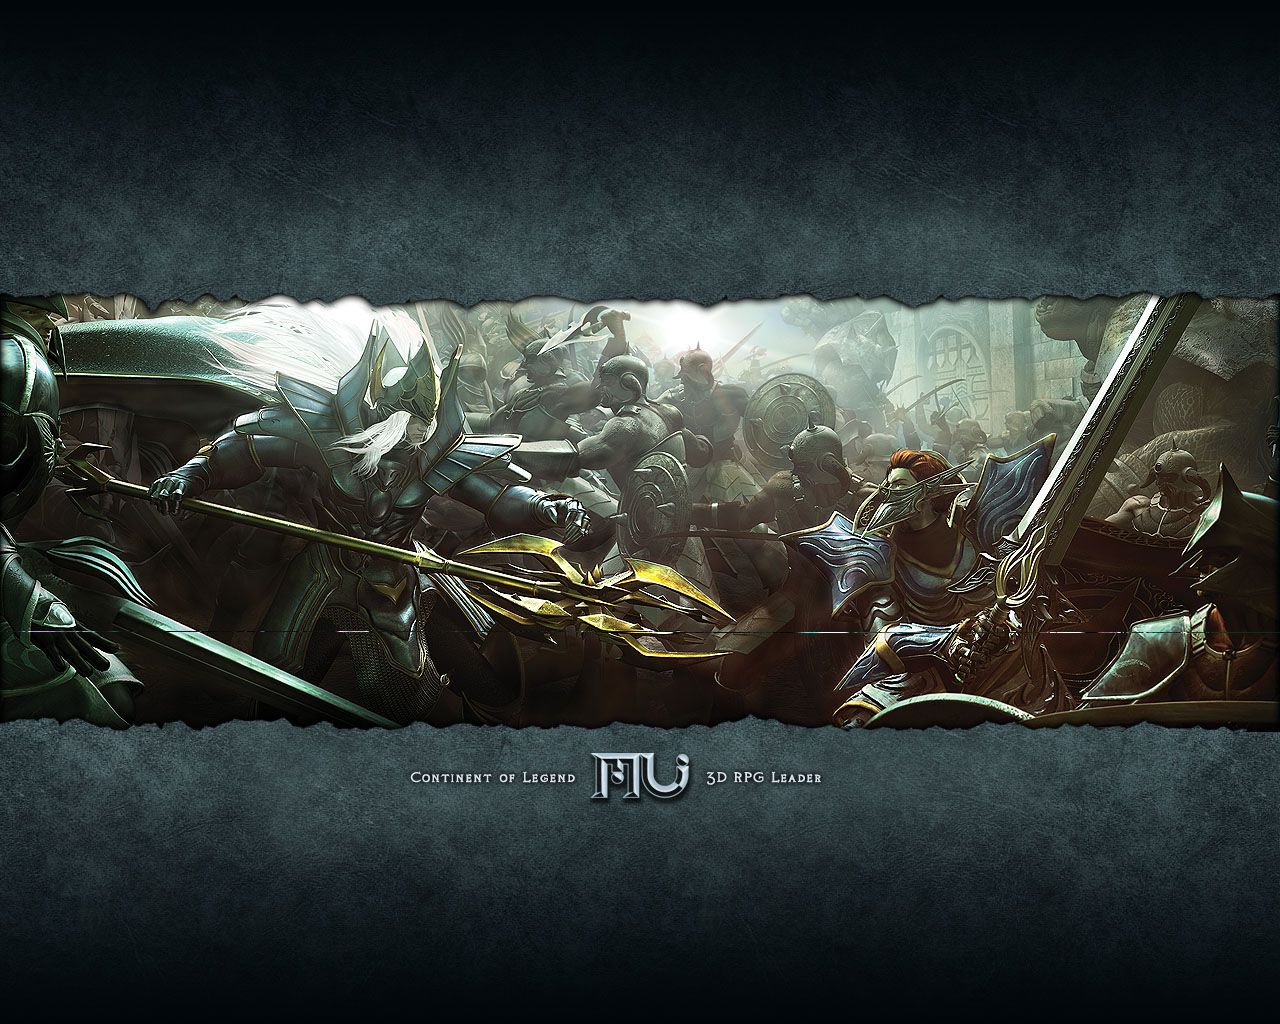
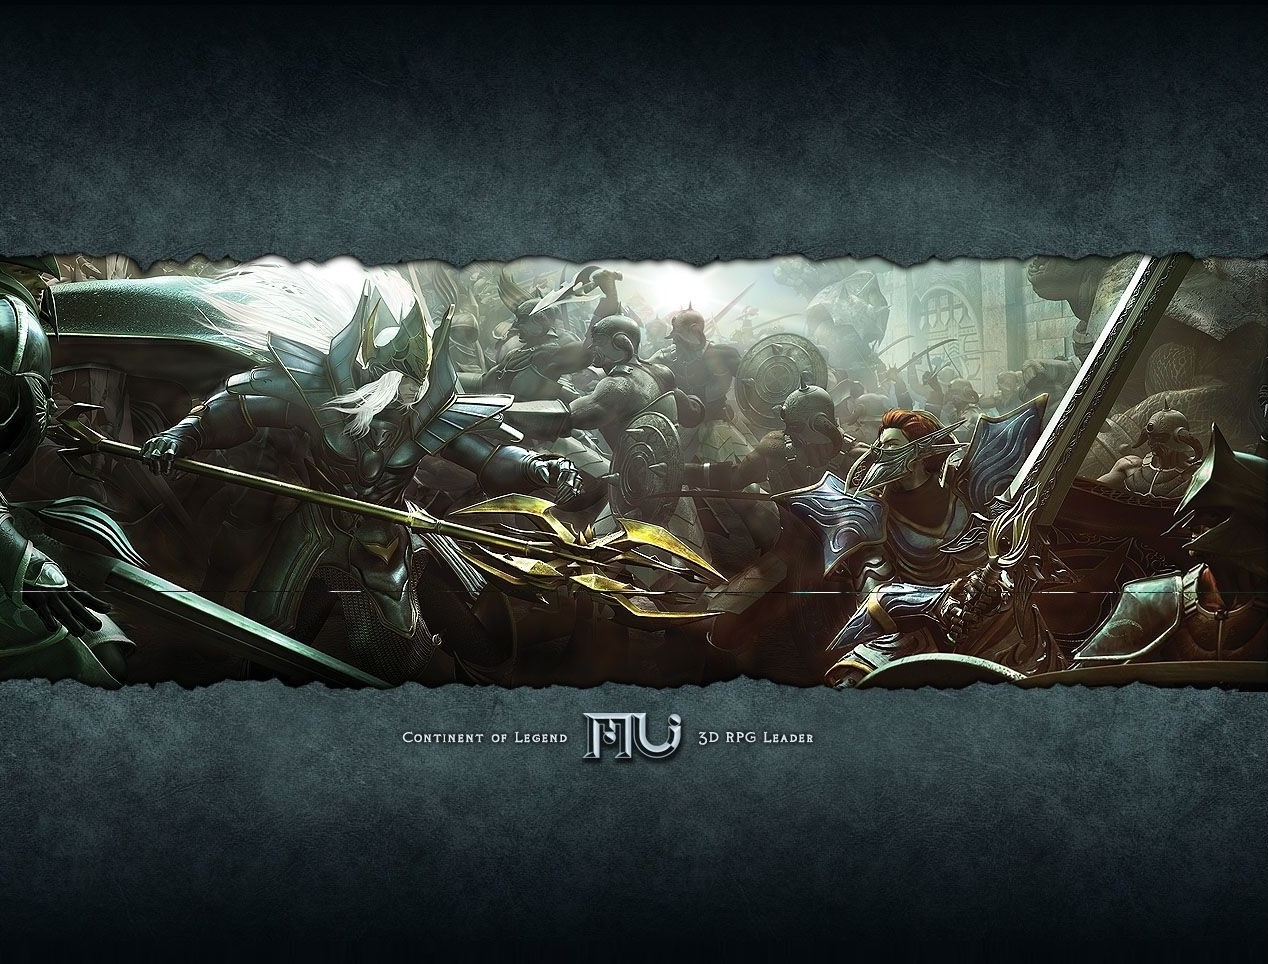
foi adicionado os card's

diff --git a/index.html b/index.html
@@ -11,9 +11,9 @@
 
         <link rel="stylesheet" href="https://stackpath.bootstrapcdn.com/bootstrap/4.3.1/css/bootstrap.min.css" integrity="sha384-ggOyR0iXCbMQv3Xipma34MD+dH/1fQ784/j6cY/iJTQUOhcWr7x9JvoRxT2MZw1T" crossorigin="anonymous">
 
+        <link rel="stylesheet" href="./assets/css/mubg.css">
         <link rel="stylesheet" href="./assets/css/menu/normalize.css"/>
         <link rel="stylesheet" href="./assets/css/menu/reset.css"/>
-        <link rel="stylesheet" href="./assets/css/mubg.css">
         <link rel="stylesheet" href="./assets/css/cabecalho.css">
         <link rel="stylesheet" href="./assets/css/menu-lista.css">
         <link rel="stylesheet" href="./assets/css/menu-item.css">
@@ -23,6 +23,12 @@
         <link rel="stylesheet" href="./assets/css/banner-imagem.css">
         <link rel="stylesheet" href="./assets/css/banner-titulo.css">
         <link rel="stylesheet" href="./assets/css/style-carousel.css">
+        <link rel="stylesheet" href="./assets/css/fonts/fonts.css">
+        <link rel="stylesheet" href="./assets/css/sobre/sobre.css">
+        <link rel="stylesheet" href="./assets/css/receitas/receitas.css">
+        <link rel="stylesheet" href="./assets/css/rodape.css">
+
+
 
         <link rel="preconnect" href="https://fonts.googleapis.com">
         <link rel="preconnect" href="https://fonts.gstatic.com" crossorigin>
@@ -50,10 +56,10 @@
             <div class="fig__test">DOWNLOAD</div>
         </section>
 
-         <!-- parte do carrosel -->
+         <!-- parte do carousel -->
 
         <div class="bd-example">
-            <div id="carouselExampleCaptions" class="carousel slide" data-interval="5000" data-ride="carousel">
+            <div id="carouselExampleCaptions" class="carousel slide "  data-interval="5000" data-ride="carousel">
               <ol class="carousel-indicators">
                 <li data-target="#carouselExampleCaptions" data-slide-to="0" class="active"></li>
                 <li data-target="#carouselExampleCaptions" data-slide-to="1"></li>
@@ -68,20 +74,18 @@
                 </div>
                 <!-- Para um html semantico usar tag "figure" no lugar de div para onde tiver imagens -->
                 <div class="carousel-item">
-                  <img src="./assets/img/carrossel2.jpg" class="d-block w-100 imagem-carrosel2" alt="...">
+                  <img src="./assets/img/carrossel2.jpg" class="d-block w-100 imagem-carrosel" alt="...">
                   <div class="carousel-caption d-none d-md-block h-50">
                     <h1 class="fonte-titulo display-3">consectetur adipiscing elit</h1>
                   </div>
                 </div>
-                            <!-- teste para terceiro carousel -->
+                <!-- teste para terceiro carousel -->
                 <div class="carousel-item">
-                    <img src="./assets/img/carosel3.jpg" class="d-block w-100 imagem-carrosel2" alt="...">
+                    <img src="./assets/img/carosel3.jpg" class="d-block w-100 imagem-carrosel" alt="...">
                     <div class="carousel-caption d-none d-md-block h-50">
                         <h1 class="fonte-titulo display-3">consectetur adipiscing elit</h1>
                     </div>
                 </div>
-
-
 
               <a class="carousel-control-prev" href="#carouselExampleCaptions" role="button" data-slide="prev">
                 <span class="carousel-control-prev-icon" aria-hidden="true"></span>
@@ -92,12 +96,66 @@
                 <span class="sr-only">Next</span>
               </a>
             </div>
+        </div>
+
+        <section class="sobre">
+          <h2 class="sobre__titulo">Etiam eget ligula eu lectus lobortis </h2>
+          <p class="sobre__descricao">aliquip ex ea commodo consequat. Duis aute irure dolor in reprehenderit in voluptate velit esse cillum dolore eu fugiat nulla pariatur.</p>
+        </section>
+
+
+        <!-- parte dos card's -->
+        <section class="receita">
+          <div class="receitas">
+              <img alt="Tigela de abacate" class="receita__imagem" src="./assets/img/cards/mu-card.jpg" class="img__sze"/>
+              <div class="receita__conteudo">
+                  <h4 class="receita__titulo">elit, sed do eiusmod </h4>
+                  <p class="receita__descricao">Excepteur sint occaecat cupidatat non proident.</p>
+                  <button class="receita__botao">sint occaecat</button>
+              </div>
           </div>
-
-
-
-
-    
+          <div class="receitas">
+              <img alt="Salada de kiwi" class="receita__imagem" src="./assets/img/cards/mu-card2.jpg" />
+              <div class="receita__conteudo">
+                  <h4 class="receita__titulo">elit, sed do eiusmod </h4>
+                  <p class="receita__descricao">Excepteur sint occaecat cupidatat non proident.</p>
+                  <button class="receita__botao">sint occaecat</button>
+              </div>
+          </div>
+          <div class="receitas">
+              <img alt="Mix de vegetais" class="receita__imagem" src="./assets/img/cards/mu-card3.jpg" />
+              <div class="receita__conteudo">
+                  <h4 class="receita__titulo">elit, sed do eiusmod </h4>
+                  <p class="receita__descricao">Excepteur sint occaecat cupidatat non proident.</p>
+                  <button class="receita__botao">sint occaecat</button>
+              </div>
+          </div>
+          <div class="receitas">
+              <img alt="Pimentões à Juliana" class="receita__imagem" src="./assets/img/cards/mu-card4.jpg" />
+              <div class="receita__conteudo">
+                  <h4 class="receita__titulo">elit, sed do eiusmod </h4>
+                  <p class="receita__descricao">Excepteur sint occaecat cupidatat non proident.</p>
+                  <button class="receita__botao">sint occaecat</button>
+              </div>
+          </div>
+          <div class="receitas">
+              <img alt="Prato oriental" class="receita__imagem" src="./assets/img/cards/mu-card5.jpg" />
+              <div class="receita__conteudo">
+                  <h4 class="receita__titulo">elit, sed do eiusmod </h4>
+                  <p class="receita__descricao">Excepteur sint occaecat cupidatat non proident.</p>
+                  <button class="receita__botao">sint occaecat</button>
+              </div>
+          </div>
+          <div class="receitas">
+              <img alt="Beterrabas assadas" class="receita__imagem" src="./assets/img/cards/mu-card6.jpg" />
+              <div class="receita__conteudo">
+                  <h4 class="receita__titulo">elit, sed do eiusmod </h4>
+                  <p class="receita__descricao">Excepteur sint occaecat cupidatat non proident.</p>
+                  <button class="receita__botao">sint occaecat</button>
+              </div>
+          </div>
+      </section>
+      <!--configurações do bootstrap -->
         <script src="https://code.jquery.com/jquery-3.3.1.slim.min.js" integrity="sha384-q8i/X+965DzO0rT7abK41JStQIAqVgRVzpbzo5smXKp4YfRvH+8abtTE1Pi6jizo" crossorigin="anonymous"></script>
         <script src="https://cdnjs.cloudflare.com/ajax/libs/popper.js/1.14.7/umd/popper.min.js" integrity="sha384-UO2eT0CpHqdSJQ6hJty5KVphtPhzWj9WO1clHTMGa3JDZwrnQq4sF86dIHNDz0W1" crossorigin="anonymous"></script>
         <script src="https://stackpath.bootstrapcdn.com/bootstrap/4.3.1/js/bootstrap.min.js" integrity="sha384-JjSmVgyd0p3pXB1rRibZUAYoIIy6OrQ6VrjIEaFf/nJGzIxFDsf4x0xIM+B07jRM" crossorigin="anonymous"></script>

diff --git a/assets/css/receitas/receitas.css b/assets/css/receitas/receitas.css
@@ -1,0 +1,38 @@
+.receita {
+    display: flex;
+    flex-wrap: wrap;
+    width: 950px;
+    margin-bottom: 200px;
+    margin-top: -45px;
+}
+
+.receitas {
+    border-top: 1px solid;
+    border-width: 15px;
+    border-color:rgba(34, 33, 33, 0.9);
+    background-color: rgba(34, 33, 33, 0.9);
+    color: rgb(187, 187, 187);
+    width: 310px;
+    margin: 3px;
+    text-align: center;
+   /* text-align: justify; */
+}
+
+.receita__imagem {
+    max-width: 300px;
+    max-height: 200px;
+    min-width: 240px;
+    min-height: 240px ;
+}
+
+.receita__botao {   
+    background:rgb(0, 0, 0);
+    border: none;
+    color: rgb(255, 255, 255);
+    padding:0.5rem;
+}
+
+.receita__botao:hover {
+    background-color: rgb(128, 23, 16);
+    cursor: pointer;
+}

diff --git a/assets/css/mubg.css b/assets/css/mubg.css
@@ -1,10 +1,18 @@
 /* formatção do plano de fundo na classe do body */
 .mubg {
-    background-image: url('./../img/fundo.jpg');
-    background-size: 100% auto;
-    background-position-y: -12vw;
-    margin-top: 20px;
+      background-image: url('./../img/fundo.jpg');
+      background-repeat: no-repeat;
+      background-attachment: fixed;
+      background-size: 155% auto;
+      background-position-y: -6vw;
+      background-position: center;
+      background-position-y: -500px;
 }
+
+
+
+
+  
 
 
 

diff --git a/assets/css/style-carousel.css b/assets/css/style-carousel.css
@@ -7,13 +7,19 @@
     margin: 20rem;
 }
 
-.imagem-carrosel {
-    height: 400px;
+#carouselExampleCaptions {
+    box-shadow: 10px 5px 5px rgb(30, 31, 30);
 }
 
-.imagem-carrosel2 {
-    height: 400px;
+.carousel {
+    
 }
+
+.imagem-carrosel {
+    /* vh é o mesmo que view port */
+    height: calc(70vh - 100px);
+}
+
 
 .botao-cor {
     background-color: rgb(182, 12, 12);

diff --git a/assets/css/fonts/fonts.css b/assets/css/fonts/fonts.css
@@ -1,0 +1,13 @@
+.fonte-titulo {
+    font-family:impact, sans-serif;
+    font-size: 40px;
+    text-shadow: 0 6px 5px   rgba(75, 73, 73, 0.99);
+    /* descobrir porque não carousel não aceita top, bottom, left etc */
+   
+   /*  transform: translate(-x%, -y%)
+   transform: translate(-50%, -50%); */
+   /*  position: relative; */
+   margin-top: -25px;
+}
+
+

diff --git a/assets/css/sobre/sobre.css b/assets/css/sobre/sobre.css
@@ -1,0 +1,10 @@
+.sobre {
+    color: rgb(255, 255, 255);
+    padding: 2.5rem;
+    text-align: center;
+    font-size: 1.200rem;
+}
+
+.sobre__titulo {
+    font-size: 2.350rem;
+}

diff --git a/assets/css/figure.css b/assets/css/figure.css
@@ -9,6 +9,7 @@
 
 .conteiner img {
  width: 100%;
+ border: 50pt;
 }
 
 .fig__test {
